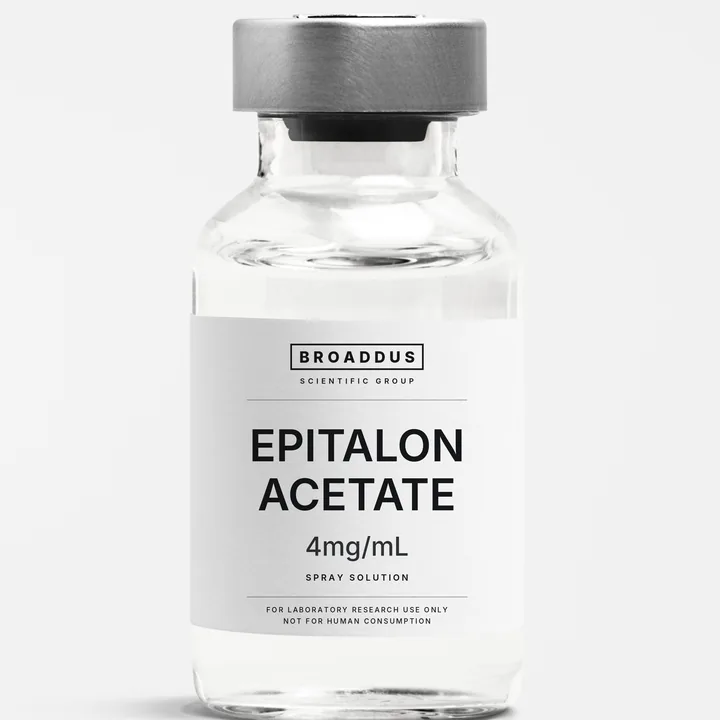
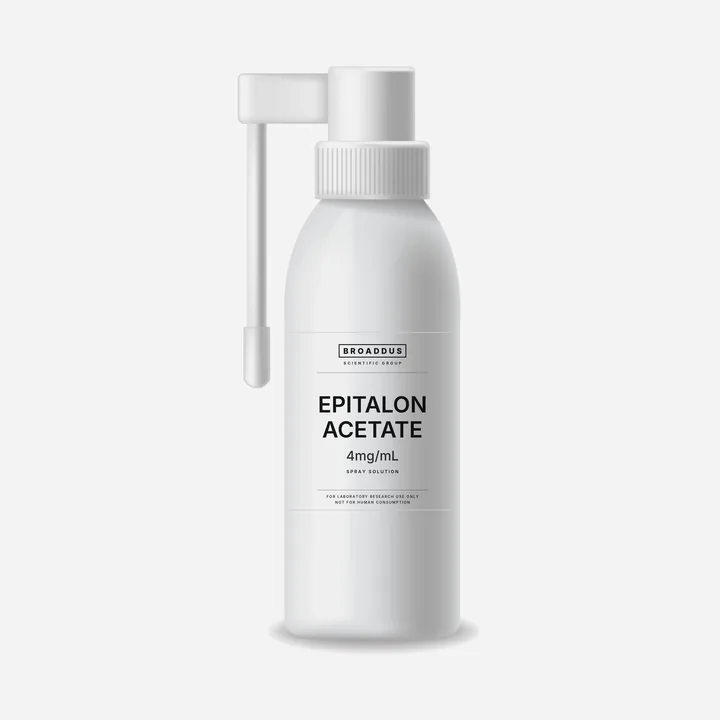
Show intranasal products in a labeled nasal-spray bottle
All Spray Solution listings (Semax, Selank, NA-Semax, NA-Selank,
GB-115, Pinealon, Epitalon, Bromantane, Vesugen, Vilon,
Androstadienone) now use the white nasal-spray bottle with a printed
wrap label, set on the same studio grey as the other product photos.

Claude-Session: https://claude.ai/code/session_01RuYHhQEtezFUCmyw1eUi66

diff --git a/tools/vial-labels/make_vials.py b/tools/vial-labels/make_vials.py
@@ -140,19 +140,43 @@ def render_jar(name, strength, form, path):
     img = img.crop((round(cx - side / 2), 0, round(cx + side / 2), side))
     img.resize((720, 720), Image.LANCZOS).save(path, 'WEBP', quality=82, method=6)
 
+SPRAYPATH = os.path.join(os.path.dirname(photo), 'spray.jpg')
+SPRAY = Image.open(SPRAYPATH).convert('RGB') if os.path.exists(SPRAYPATH) else None
+
+def render_spray(name, strength, form, path):
+    """White nasal-spray bottle (the unlabeled one on the right of the stock image) with a printed wrap label."""
+    k = SPRAY.width / 1400                               # measurements below are on a 1400px-wide preview
+    P = lambda *v: tuple(round(x * k) for x in v)
+    img = SPRAY.copy()
+    lx0, ly0, lx1, ly1 = P(892, 560, 1169, 850)          # straight part of the bottle body
+    lw, lh = lx1 - lx0, ly1 - ly0
+    art = label(name, strength, form, H=round(W * lh / lw)).resize((lw, lh), Image.LANCZOS)
+    img.paste(ImageChops.multiply(img.crop((lx0, ly0, lx1, ly1)), art), (lx0, ly0))   # keeps the bottle's own shading
+    d = ImageDraw.Draw(img)
+    for y in (ly0, ly1):                                 # faint label edges
+        d.line([lx0 + 4, y, lx1 - 4, y], fill=(214, 216, 220), width=max(2, round(k)))
+    img = img.point([round(v * 0.951) for v in range(256)] * 3)   # white backdrop -> the studio grey of the other photos
+    # right bottle only, centred on a square grey canvas
+    region = img.crop(P(600, 60, 1400, 1150))
+    cx = 1010 * k - 600 * k                              # bottle centre inside the region
+    side = round(965 * k / 0.82)
+    canvas = Image.new('RGB', (side, side), (243, 243, 243))
+    canvas.paste(region, (round(side / 2 - cx), round(side * 0.5 - (605 - 60) * k)))
+    canvas.resize((720, 720), Image.LANCZOS).save(path, 'WEBP', quality=82, method=6)
+
 os.makedirs(outdir, exist_ok=True)
 jobs = []
 for c in cat['chemicals']:
     form = {'Spray Solution': 'Spray solution', 'Gel Dispenser': 'Topical gel', 'Aliquot Solution': 'Aliquot solution'}.get(c['form'], c['form'])
     nm = re.sub(r'\s*\(.*?\)\s*', ' ', c['name']).strip() if len(c['name']) > 22 else c['name']
-    jobs.append((c['id'], nm, c['size'], form, 'drop' if c['form'] == 'Solution' else 'jar' if c['form'] in ('Powder', 'Capsules') else 'vial'))
+    jobs.append((c['id'], nm, c['size'], form, 'drop' if c['form'] == 'Solution' else 'jar' if c['form'] in ('Powder', 'Capsules') else 'spray' if c['form'] == 'Spray Solution' else 'vial'))
 for p in cat['peptides']:
     for z in p['sizes']:
         form = 'Sterile solution' if p['id'] == 'bac-water' else 'Kit' if p['cat'] == 'supplies' else 'Solution' if p['form'] == 'Solution' else 'Lyophilized powder'
         jobs.append((p['id'] + '--' + slug(z['label']), p['name'], z['label'], form, 'drop' if p['form'] == 'Solution' else 'vial'))
 if only: jobs = [j for j in jobs if re.search(only, j[0])]
 for fid, nm, st, fm, kind in jobs:
-    fn = render_dropper if (kind == 'drop' and DROPPER) else render_jar if (kind == 'jar' and JAR) else render
+    fn = render_dropper if (kind == 'drop' and DROPPER) else render_jar if (kind == 'jar' and JAR) else render_spray if (kind == 'spray' and SPRAY) else render
     fn(nm, st, fm, os.path.join(outdir, fid + '.webp'))
-print('droppers', sum(1 for j in jobs if j[4] == 'drop' and DROPPER), '| jars', sum(1 for j in jobs if j[4] == 'jar' and JAR))
+print('droppers', sum(1 for j in jobs if j[4] == 'drop' and DROPPER), '| jars', sum(1 for j in jobs if j[4] == 'jar' and JAR), '| sprays', sum(1 for j in jobs if j[4] == 'spray' and SPRAY))
 print('rendered', len(jobs))

diff --git a/tools/vial-labels/README.md b/tools/vial-labels/README.md
@@ -1,11 +1,13 @@
-# Vial, dropper and jar labels for the shop
+# Product labels for the shop (vial, dropper, jar, nasal spray)
 
 Every product photo in `shop/assets/img/vials/` is one of two bottles with the product's
 name, strength and form printed onto its label:
 - **Solutions** (form "Solution"): the amber dropper bottle, `dropper.png` (transparent PNG),
   placed on the same light-grey studio background as the vial.
 - **Powders and capsules** (chemicals): the black screw-top jar, `jar.jpg`, with a white wrap label.
-- **Everything else** (sprays, gels, aliquots, lyophilized peptides): the glass vial photo.
+- **Intranasal sprays** (form "Spray Solution"): the white nasal-spray bottle, `spray.jpg`
+  (the unlabeled bottle on the right of stock image 14598), with a printed wrap label.
+- **Everything else** (gels, aliquots, lyophilized peptides): the glass vial photo.
 
 Photo: "Injection bottle glass vial with blank white label" by rawpixel.com on Magnific
 (free license, attribution required; the credit is in the shop footer). The original photo is
@@ -16,7 +18,7 @@ from https://www.magnific.com/free-photo/injection-bottle-glass-vial-with-blank-
 
     python3 tools/vial-labels/make_vials.py . path/to/vial.jpg shop/assets/img/vials
 
-Put `dropper.png` and `jar.jpg` in the same folder as `vial.jpg`; without them, those products fall back to the vial.
+Put `dropper.png`, `jar.jpg` and `spray.jpg` in the same folder as `vial.jpg`; without them, those products fall back to the vial.
 
 Add a regex as a fourth argument to render only matching files, e.g. `'^bpc-157'`.
 Needs Python 3 with Pillow, Node (to read `catalog.js`) and the Inter font.
